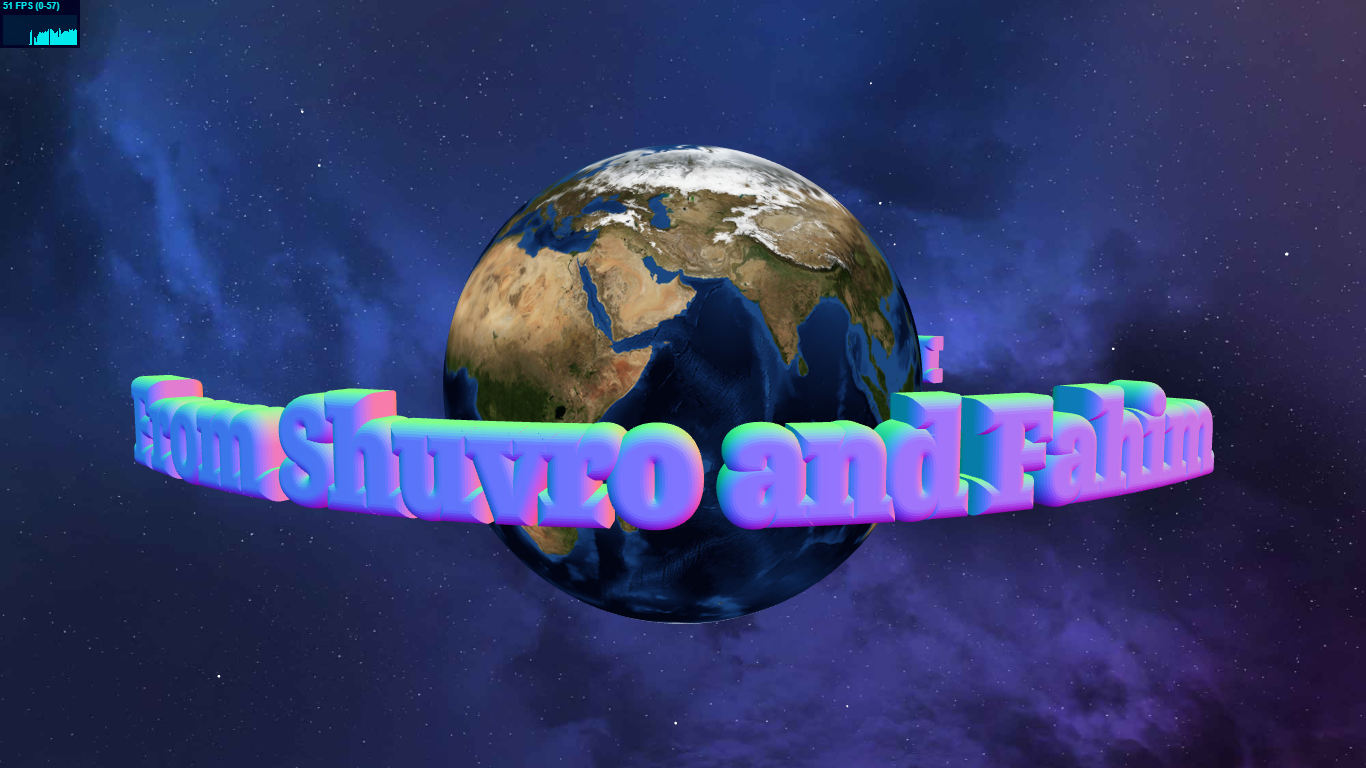
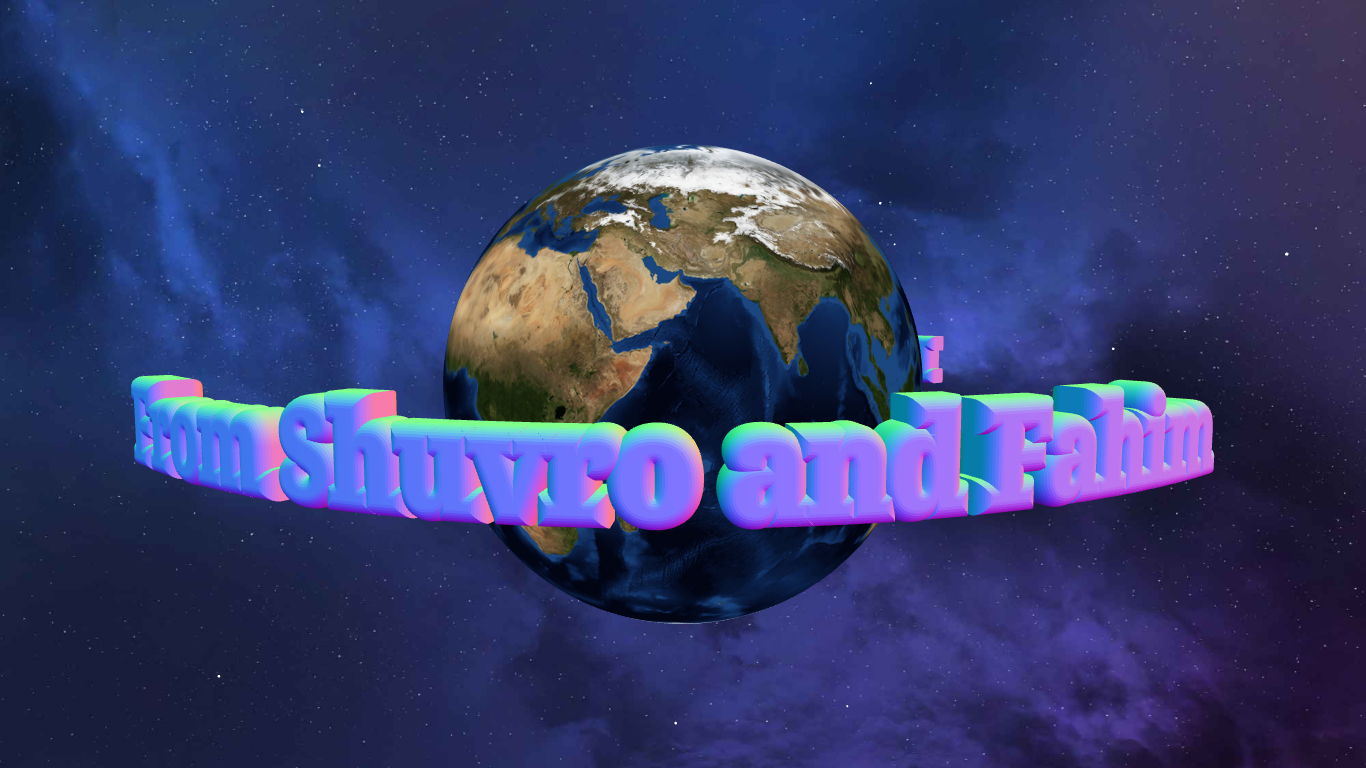
Normal Map working now. Issue fixed #6

Changed region(s): [[0.0, 0.0, 0.0922, 0.1562]]

diff --git a/src/components/Animation.jsx b/src/components/Animation.jsx
@@ -141,8 +141,16 @@ export default class Animation extends Component {
         scene.add(earth);
 
         // MeshStandardMaterial WILL NOT WORK WITHOUT LIGHT.
-        let ambientLight = new THREE.AmbientLight(0xffffff);
-        scene.add(ambientLight);
+        let dirLight;
+
+        // SETTING AMBIENT LIGHT IN FRONT OF THE CAMERA AND BACKSIDE THE CAMERA.
+        dirLight = new THREE.DirectionalLight(0xffffff);
+        dirLight.position.set(0, 0, 1).normalize();
+        scene.add(dirLight);
+
+        dirLight = new THREE.DirectionalLight(0xffffff);
+        dirLight.position.set(0, 0, -1).normalize();
+        scene.add(dirLight);
 
         // CREATING ROTATING TEXTS.
         const loader1 = new THREE.FontLoader();
@@ -193,7 +201,6 @@ export default class Animation extends Component {
                 Modifier.set(direction, axis, angle).modify(geometry2); // CAUSES THE BEND.
 
                 // CREATING A GROUP OF THESE TEXTS.
-
                 let textGroup = new THREE.Group();
                 textGroup.add(textMesh1);
                 textGroup.add(textMesh2);
@@ -233,18 +240,24 @@ export default class Animation extends Component {
             stats.update();
             camera.position.y = 5;
 
+            // IF EFFECT IS NOT COMPLETED...
             if (!completed) {
-                if (timer > 150) {
+                if (timer > 120) {
+                    // IF TIMER IS GREATER THAN 121 (DEFAULT IS 0)
                     if (camera.position.z > 48) {
+                        // IF camera'S Z COORDINATE IS GREATER THAN 48 (DEFAULT IS 200 * textArray.length + 45 * 2)
                         if (!completed) {
+                            // IF EFFECT IS NOT COMPLETED
                             camera.position.z -= 3;
                         }
                     } else {
-                        camera.position.z = 45;
-                        controls.enabled = true;
-                        completed = true;
+                        // IF camera'S Z COORDINATE IS NOT GREATER THAN 48
+                        camera.position.z = 45; // SET IT TO 45
+                        controls.enabled = true; // ENABLE THE USER CONTROL
+                        completed = true; // MAKE THE completed TO true
                     }
                 } else {
+                    // IF timer IS NOT GREATER THAN 121
                     timer++;
                 }
             }

diff --git a/src/App.js b/src/App.js
@@ -5,7 +5,7 @@ import Animation from "./components/Animation";
 // DO NOT DELETE THIS LINE. I HAVE IMPORTED ALL THE ESSENTIAL IMAGES SO THAT THEY MIGHT LOAD FASTER.
 import EarthTexture from "./img/earth.jpg";
 import SpaceTexture from "./img/space.jpg";
-import NormalEarthTexture from "./img/earth_normal_map.jpg";
+import NormalEarthTexture from "./img/earth_normal_map.png";
 
 let images = {
     EarthTexture: EarthTexture,
